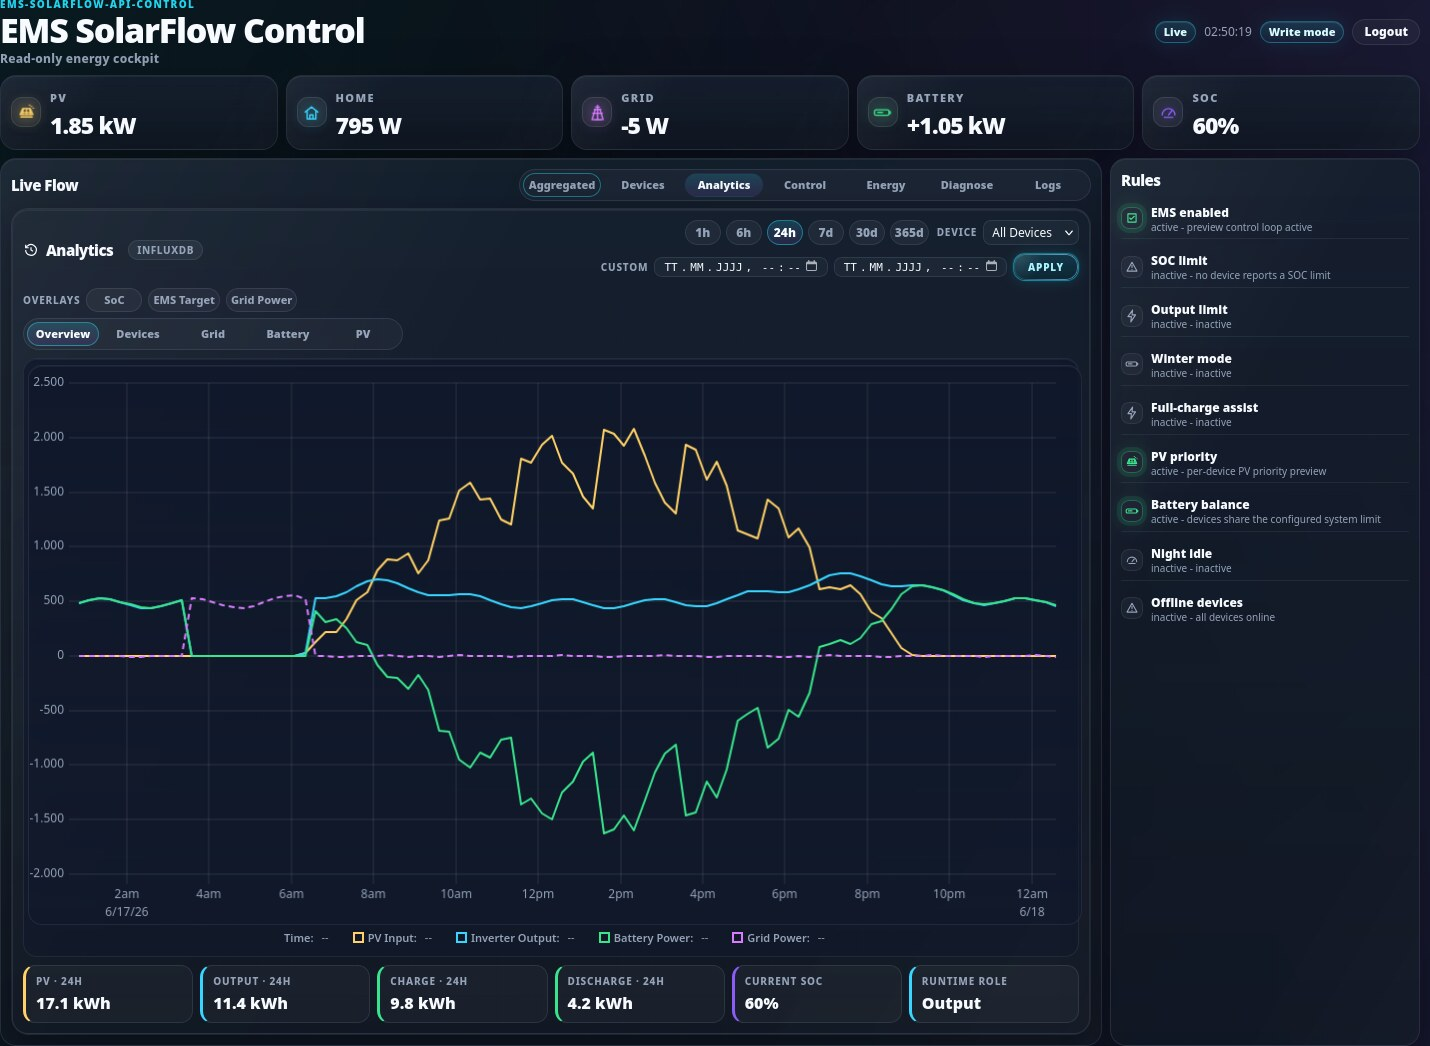
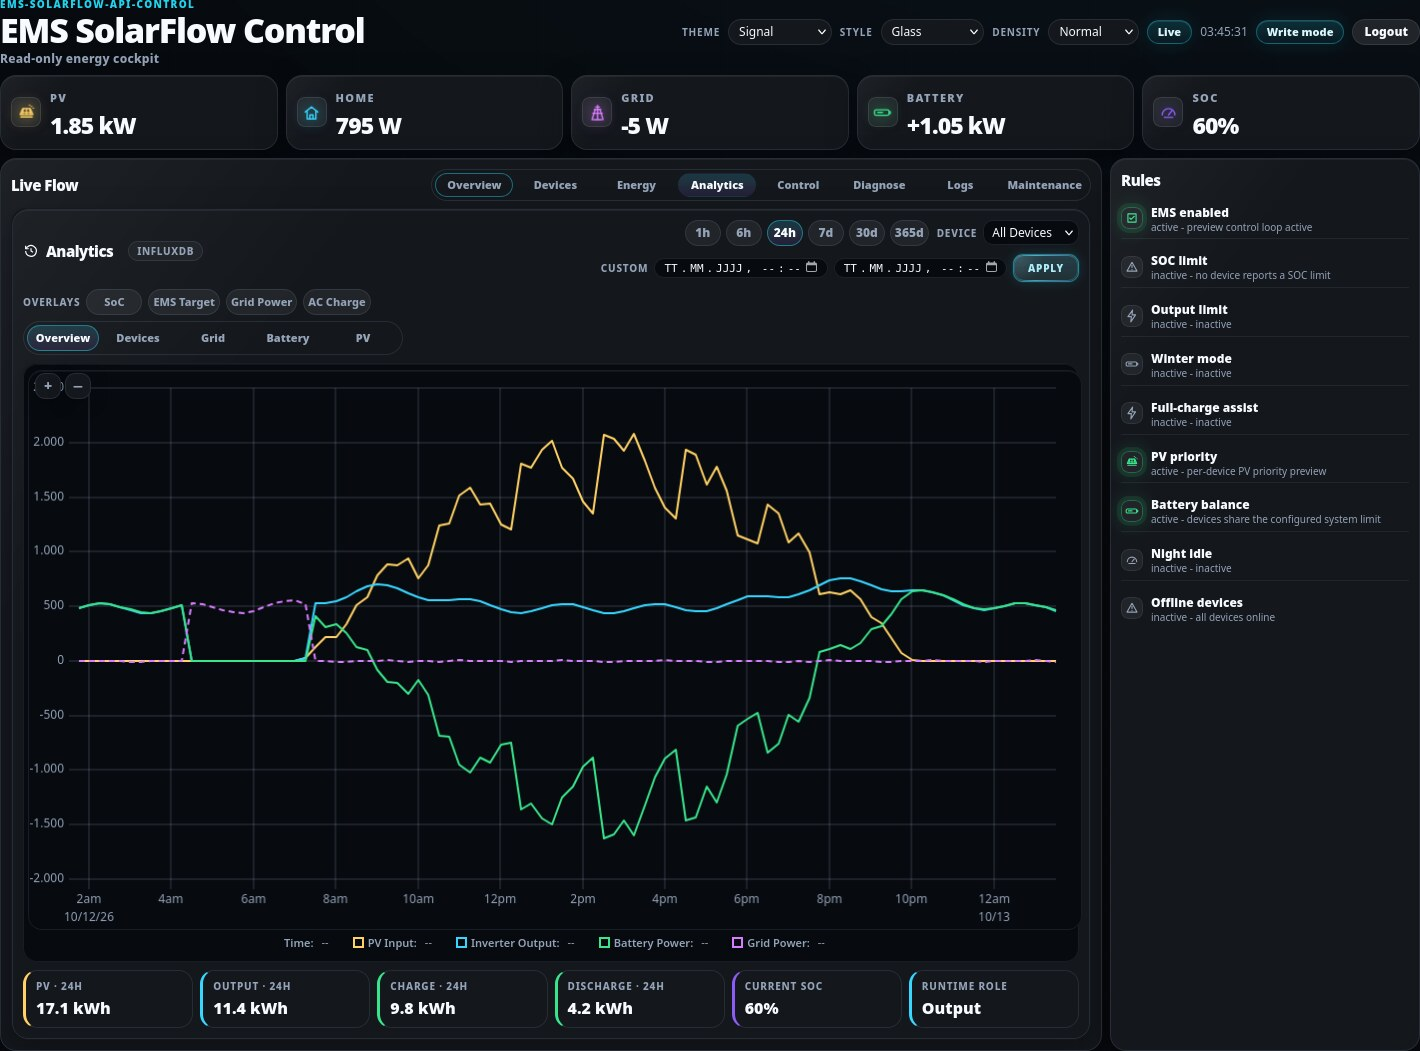
fix(dashboard): the charts take the palette's colours, and a palette switch repaints them
The Analytics and History charts draw on a canvas, which cannot read a
custom property. Their series, axis and grid colours were resolved once
when a chart was built, and nothing rebuilt it on a palette switch: a
refresh reused the chart through setData with the old palette's colours
until its structure changed or the page was reloaded. The grid was the
literal rgba(255,255,255,0.06) on every palette.

chartColors resolves every colour from the palette's tokens, the grid
from --border, the palette's own hairline. The resolved colours are part
of each chart's reuse signature, so a palette that changes them rebuilds
the chart on its next render, and applyTheme repaints the chart that is
on screen at once; a chart on a hidden tab is rebuilt when its view loads
it again, at its real width. The zoom is re-applied on the rebuild as on
every other.

Without this change the three new palette tests in
test_dashboard_analytics_frontend.py fail (no rebuild after the switch,
the white grid, a hidden chart reused in the old colours), and the two
new specs in theme.spec.ts fail in Chromium with the legend still in
Signal's PV colour after switching to Copper or Oxide. The style guide
says how a canvas takes a token; the user guide, the dashboard reference
and the two Analytics screenshots are updated.

diff --git a/dashboard/static/app.js b/dashboard/static/app.js
@@ -6699,6 +6699,21 @@ function cssColor(varName, fallback) {
   return value || fallback;
 }
 
+function chartColors(seriesIds) {
+  const axis = cssColor("--muted", "#8a94a3");
+  return {
+    series: seriesIds.map((id) => cssColor(ANALYTICS_SERIES_META[id].colorVar, "#888")),
+    axis,
+    grid: cssColor("--border", axis),
+    pct: cssColor("--accent", "#8b5cf6"),
+  };
+}
+
+function repaintChartsForPalette() {
+  if (state.analytics.chart && analyticsPanelVisible()) renderAnalyticsChart();
+  if (state.history.chart && historyVisible()) renderHistoryChart();
+}
+
 // Analytics chart display-only sign convention. The backend/API/SQLite/KPI sign
 // convention is unchanged (charging positive, discharging negative). For the
 // Analytics uPlot chart only we invert the battery line so charging reads below
@@ -6745,18 +6760,19 @@ function analyticsSeriesTooltip(seriesId, displayValue, unit) {
   return `${rounded} ${unit}`;
 }
 
-// Identity of the uPlot structure (series set, axes, scales). When this is
-// unchanged across a refresh the chart can be updated in place with setData()
+// Identity of the uPlot structure (series set, axes, scales, colours). When this
+// is unchanged across a refresh the chart can be updated in place with setData()
 // instead of being destroyed and recreated -- avoiding canvas setup, layout and
-// GC churn. A change (tab, series, overlays, device, axis/pct scale) forces a
-// rebuild.
-function analyticsChartSignature(chartSeries, usesPctScale) {
+// GC churn. A change (tab, series, overlays, device, axis/pct scale, the
+// palette's colours, which a canvas cannot read from CSS) forces a rebuild.
+function analyticsChartSignature(chartSeries, usesPctScale, colors) {
   return JSON.stringify({
     tab: state.analytics.tab,
     series: chartSeries,
     overlays: state.analytics.overlays,
     device: state.analytics.device || "",
     pct: usesPctScale,
+    colors,
   });
 }
 
@@ -6813,7 +6829,8 @@ function renderAnalyticsChart() {
   chartSeries.forEach((id) => {
     if (ANALYTICS_SERIES_META[id].scaleId === "pct") usesPctScale = true;
   });
-  const signature = analyticsChartSignature(chartSeries, usesPctScale);
+  const colors = chartColors(chartSeries);
+  const signature = analyticsChartSignature(chartSeries, usesPctScale, colors);
   // Battery is inverted here for display only; raw state.analytics.data is untouched.
   const seriesData = analyticsChartSeriesData(data, chartSeries);
 
@@ -6842,12 +6859,12 @@ function renderAnalyticsChart() {
   container.innerHTML = "";
 
   const seriesConfig = [{}];
-  chartSeries.forEach((id) => {
+  chartSeries.forEach((id, index) => {
     const meta = ANALYTICS_SERIES_META[id];
     const isOverlay = !currentAnalyticsTab().series.includes(id);
     seriesConfig.push({
       label: meta.label,
-      stroke: cssColor(meta.colorVar, "#888"),
+      stroke: colors.series[index],
       width: 2,
       dash: isOverlay ? [6, 4] : undefined,
       scale: meta.scaleId || "y",
@@ -6855,19 +6872,17 @@ function renderAnalyticsChart() {
     });
   });
 
-  const axisColor = cssColor("--muted", "#8a94a3");
-  const gridColor = "rgba(255,255,255,0.06)";
   const scales = { x: { time: true }, y: {} };
   const axes = [
-    { stroke: axisColor, grid: { stroke: gridColor }, ticks: { stroke: gridColor } },
-    { scale: "y", stroke: axisColor, grid: { stroke: gridColor }, ticks: { stroke: gridColor } },
+    { stroke: colors.axis, grid: { stroke: colors.grid }, ticks: { stroke: colors.grid } },
+    { scale: "y", stroke: colors.axis, grid: { stroke: colors.grid }, ticks: { stroke: colors.grid } },
   ];
   if (usesPctScale) {
     scales.pct = { range: [0, 100] };
     axes.push({
       scale: "pct",
       side: 1,
-      stroke: cssColor("--accent", "#8b5cf6"),
+      stroke: colors.pct,
       grid: { show: false },
       values: (_self, ticks) => ticks.map((t) => `${t}%`),
     });
@@ -7229,10 +7244,11 @@ function renderHistoryChart() {
   // discharging) and null handling.
   const seriesData = analyticsChartSeriesData(data, seriesIds);
 
-  // The history chart structure only varies by the (fixed) series set and the
-  // selected device, so reuse the instance in place across refreshes when those
-  // are unchanged.
-  const signature = JSON.stringify({ series: seriesIds, device: state.history.device || "" });
+  // The history chart structure only varies by the (fixed) series set, the
+  // selected device and the palette's colours, so reuse the instance in place
+  // across refreshes when those are unchanged.
+  const colors = chartColors(seriesIds);
+  const signature = JSON.stringify({ series: seriesIds, device: state.history.device || "", colors });
   if (
     state.history.chart &&
     state.history.chartSignature === signature &&
@@ -7253,11 +7269,11 @@ function renderHistoryChart() {
   container.innerHTML = "";
 
   const seriesConfig = [{}];
-  seriesIds.forEach((id) => {
+  seriesIds.forEach((id, index) => {
     const meta = ANALYTICS_SERIES_META[id];
     seriesConfig.push({
       label: meta.label,
-      stroke: cssColor(meta.colorVar, "#888"),
+      stroke: colors.series[index],
       width: 2,
       scale: "y",
       // Reuse the Analytics tooltip so the inverted battery line reads back as
@@ -7266,16 +7282,14 @@ function renderHistoryChart() {
     });
   });
 
-  const axisColor = cssColor("--muted", "#8a94a3");
-  const gridColor = "rgba(255,255,255,0.06)";
   const opts = {
     width: container.clientWidth || 600,
     height: historyChartHeight(),
     series: seriesConfig,
     scales: { x: { time: true }, y: {} },
     axes: [
-      { stroke: axisColor, grid: { stroke: gridColor }, ticks: { stroke: gridColor } },
-      { scale: "y", stroke: axisColor, grid: { stroke: gridColor }, ticks: { stroke: gridColor } },
+      { stroke: colors.axis, grid: { stroke: colors.grid }, ticks: { stroke: colors.grid } },
+      { scale: "y", stroke: colors.axis, grid: { stroke: colors.grid }, ticks: { stroke: colors.grid } },
     ],
     cursor: { focus: { prox: 24 } },
     legend: { live: true },
@@ -7539,6 +7553,7 @@ function applyTheme(id) {
   } catch (err) {
     /* localStorage may be unavailable; the choice holds for this page. */
   }
+  repaintChartsForPalette();
   return theme;
 }
 
@@ -7897,6 +7912,7 @@ if (typeof module !== "undefined") {
     loadHistory,
     HISTORY_SERIES,
     renderHistoryChart,
+    applyTheme,
     detectZoom,
     onAnalyticsXScale,
     onHistoryXScale,

diff --git a/tests/e2e-dashboard/theme.spec.ts b/tests/e2e-dashboard/theme.spec.ts
@@ -149,3 +149,68 @@ test.describe("theme switching @smoke", () => {
     expect(stored).toEqual({ theme: "oxide", style: "halo", density: "roomy" });
   });
 });
+
+// The two charts draw on a canvas, which cannot read a custom property: their
+// colours are resolved from the palette when a chart is built. What a reader
+// sees of that, short of reading pixels, is the legend marker uPlot paints in
+// the series' stroke, so that is what these compare with the palette's own
+// token, resolved by the browser the same way.
+async function legendMarkerColour(page, chartId: string, label: string) {
+  return page.evaluate(
+    ({ chartId, label }) => {
+      const rows = Array.from(document.querySelectorAll(`#${chartId} .u-legend .u-series`));
+      const row = rows.find((node) => (node.textContent || "").includes(label));
+      const marker = row ? row.querySelector(".u-marker") : null;
+      return marker ? getComputedStyle(marker).borderTopColor : null;
+    },
+    { chartId, label }
+  );
+}
+
+async function tokenColour(page, token: string) {
+  return page.evaluate((name) => {
+    const probe = document.createElement("span");
+    probe.style.color = `var(${name})`;
+    document.body.appendChild(probe);
+    const colour = getComputedStyle(probe).color;
+    probe.remove();
+    return colour;
+  }, token);
+}
+
+test.describe("charts follow the palette @smoke", () => {
+  test("a palette switch repaints the chart on screen", async ({ page }) => {
+    await page.goto("/preview/analytics", { waitUntil: "domcontentloaded" });
+    await expect(page.locator("#analyticsChart canvas").first()).toBeVisible();
+    await expect
+      .poll(() => legendMarkerColour(page, "analyticsChart", "PV Input"))
+      .toBe(await tokenColour(page, "--pv"));
+    const before = await legendMarkerColour(page, "analyticsChart", "PV Input");
+
+    await page.selectOption("#themeSelect", "copper");
+    await expect(page.locator("html")).toHaveAttribute("data-theme", "copper");
+    const copperPv = await tokenColour(page, "--pv");
+    expect(copperPv).not.toBe(before);
+    await expect
+      .poll(() => legendMarkerColour(page, "analyticsChart", "PV Input"))
+      .toBe(copperPv);
+  });
+
+  test("a chart off screen during the switch is repainted when it comes back", async ({
+    page,
+  }) => {
+    await page.goto("/preview/aggregated", { waitUntil: "domcontentloaded" });
+    await expect(page.locator("#historyChart canvas").first()).toBeVisible();
+    const historyPv = () => legendMarkerColour(page, "historyChart", "PV Input");
+    await expect.poll(historyPv).toBe(await tokenColour(page, "--pv"));
+
+    await page.locator('[data-flow-view="control"]').click();
+    await expect(page.locator(".history-panel")).toBeHidden();
+    await page.selectOption("#themeSelect", "oxide");
+    await expect(page.locator("html")).toHaveAttribute("data-theme", "oxide");
+
+    await page.locator('[data-flow-view="aggregated"]').click();
+    await expect(page.locator(".history-panel")).toBeVisible();
+    await expect.poll(historyPv).toBe(await tokenColour(page, "--pv"));
+  });
+});

diff --git a/tests/test_dashboard_analytics_frontend.py b/tests/test_dashboard_analytics_frontend.py
@@ -1605,6 +1605,108 @@ def test_a_read_only_device_without_a_charge_level_shows_none_and_has_no_runtime
     assert controlled["soc"] == ["Current SoC", "--"]
 
 
+PALETTE_HARNESS = """
+const app = require(%(app)s);
+const palettes = {
+  signal: { "--pv": "#ffd166", "--output": "#38d5ff", "--battery": "#39e58c",
+            "--muted": "#94a3b8", "--border": "rgba(148, 163, 184, 0.16)", "--accent": "#8b5cf6" },
+  copper: { "--pv": "#e8b45a", "--output": "#7fb8c8", "--battery": "#8fbf6a",
+            "--muted": "#a89b89", "--border": "rgba(184, 160, 128, 0.16)", "--accent": "#c98a4b" },
+};
+let theme = "signal";
+const built = [];
+const nodes = {
+  analyticsChart: { clientWidth: 800, innerHTML: "", isConnected: true },
+  historyChart: { clientWidth: 800, innerHTML: "" },
+};
+global.document = {
+  hidden: false,
+  documentElement: {
+    getAttribute: (name) => (name === "data-theme" ? theme : null),
+    setAttribute: (name, value) => { if (name === "data-theme") theme = value; },
+  },
+  getElementById: (id) => nodes[id] || null,
+  querySelectorAll: () => [],
+};
+global.window = { innerWidth: 1200, localStorage: { getItem: () => null, setItem: () => {} } };
+global.getComputedStyle = () => ({ getPropertyValue: (name) => palettes[theme][name] || "" });
+global.uPlot = function (opts, data) {
+  built.push({
+    chart: opts.cursor && opts.cursor.sync ? "analytics" : "history",
+    series: opts.series.slice(1).map((s) => s.stroke),
+    axis: opts.axes[1].stroke,
+    grid: opts.axes[1].grid.stroke,
+  });
+  this.data = data;
+  this.scales = { x: { min: data[0][0], max: data[0][data[0].length - 1] } };
+  this.setData = (next) => { this.data = next; };
+  this.setScale = () => {};
+  this.destroy = () => {};
+};
+const data = { time: [0, 1800, 3600], series: { pv: [1, 2, 3], output: [1, 2, 3], battery: [1, -2, 3] } };
+app.state.analytics.tab = "overview";
+app.state.analytics.data = data;
+app.state.history.data = data;
+"""
+
+
+def _palette_run(body):
+    script = PALETTE_HARNESS % {"app": json.dumps(str(APP_JS))} + body
+    return run_node(script)
+
+
+def test_a_palette_change_repaints_the_chart_on_screen():
+    """Canvas strokes are resolved once; the palette switch must resolve them again."""
+    out = _palette_run(
+        """
+app.state.flowView = "analytics";
+app.renderAnalyticsChart();
+app.applyTheme("copper");
+console.log(JSON.stringify(built));
+"""
+    )
+    assert len(out) == 2, out
+    signal, copper = out
+    assert signal["series"] == ["#ffd166", "#38d5ff", "#39e58c"]
+    assert copper["series"] == ["#e8b45a", "#7fb8c8", "#8fbf6a"]
+    assert copper["axis"] == "#a89b89"
+
+
+def test_the_chart_grid_is_the_palettes_own_line():
+    out = _palette_run(
+        """
+app.state.flowView = "aggregated";
+app.renderHistoryChart();
+app.applyTheme("copper");
+console.log(JSON.stringify(built));
+"""
+    )
+    assert [entry["grid"] for entry in out] == [
+        "rgba(148, 163, 184, 0.16)",
+        "rgba(184, 160, 128, 0.16)",
+    ]
+
+
+def test_a_chart_off_screen_during_a_palette_change_takes_it_on_its_next_render():
+    """A hidden chart is not rebuilt at zero width; its next render rebuilds it."""
+    out = _palette_run(
+        """
+app.state.flowView = "analytics";
+app.renderAnalyticsChart();
+app.state.flowView = "aggregated";
+app.applyTheme("copper");
+const whileHidden = built.filter((entry) => entry.chart === "analytics").length;
+app.state.flowView = "analytics";
+app.renderAnalyticsChart();
+console.log(JSON.stringify({ whileHidden, built }));
+"""
+    )
+    assert out["whileHidden"] == 1
+    analytics = [entry for entry in out["built"] if entry["chart"] == "analytics"]
+    assert len(analytics) == 2
+    assert analytics[-1]["series"] == ["#e8b45a", "#7fb8c8", "#8fbf6a"]
+
+
 _R7_GOOD = _custom_range_answer(["WR1"], 500, 400)
 _R7_NEWER = _custom_range_answer(["WR1"], 1000, 400)
 _R7_NEWEST = _custom_range_answer(["WR1"], 1500, 400)

diff --git a/docs/developer/review-coverage.md b/docs/developer/review-coverage.md
@@ -323,6 +323,7 @@ Review rounds: twenty-four, each on a fixed commit by a reviewer that had not wr
 | AL13 | low | An unreadable development-build catalogue read as an empty one: unreachable without a copy from the last day, malformed, oversized or carrying a duplicate tag, `load_development_builds` answered `[]`, so the Experimental group disappeared from Setup and Guided Upgrade without a word, while the release catalogue beside it refuses to mistake "could not be read" for "there are none"; selecting a listed development build during such an outage was refused as "not an installable catalogue entry" | fix(admin): a development catalogue that cannot be read is named, not shown as empty |
 | FR9 | low | The Control view printed the EMS's codes: the strategy as `pv_first` in the context strip and `pv first` in the Target stage, limit names, limiting and write reasons as `runtime role ac input`, `pv only limit` or `output limit update`, and a device's capability signals as `pv evidence,output evidence`. The one label for an AC input block was keyed on `ac_input_runtime_role` while the EMS sends `runtime_role_ac_input`, so it never showed; decision reasons such as `night_min_soc_idle` had no sentence | fix(dashboard): the Control view names what the EMS decided instead of printing its codes |
 | FR11 | low | The Analytics KPI labels named the period button whatever the KPIs integrated: with a custom range or a zoom the cards still read `PV · 24h` over a window of three days or ninety minutes, PV Peak named no window at all, and with a device selected Current SoC showed the system average beside a Runtime Role and energy KPIs for that device | fix(dashboard): the Analytics KPIs name the window they integrate and the device they describe |
+| FR12 | low | The Analytics and History charts ignored a palette switch: a canvas cannot read a custom property, the series, axis and grid colours were resolved once when a chart was built, and a refresh reused the chart with its old colours until its structure changed or the page was reloaded; the grid was a white literal (`rgba(255,255,255,0.06)`) on every palette | fix(dashboard): the charts take the palette's colours, and a palette switch repaints them |
 
 ## Decisions
 
@@ -363,7 +364,6 @@ reproduction; confirm or drop them before fixing.
 | AM13 | medium | large | `GuidedSetupWorkflowStore.ensure_active()` overwrites an unreadable workflow record, which is the only ownership proof for its artifacts | Same decision as AM9: strict read and a recovery state |
 | BK7 | low | large | The InfluxDB restore holds the whole backup in memory and decrypts to the system temp directory | Stream the archive, decrypt into the backup directory |
 | Q8 | low | — | The MQTT message id counter restarts at 1 on every start | Left as is: the ids reach real hardware and seeding them is not hardware-validated; a reply must also match the device and arrive during a command |
-| FR12 | low | small | Chart colours ignore the theme | UI polish |
 | G9, G10 | low | small | The `function/invoke/reply` subscription takes its prefix from the telemetry family (`/…` for `legacy_zendure_json_alt`, `iot/…` otherwise) while the command always goes to `iot/…/function/invoke`, so a reply on the other prefix is never matched and the command waits out its 10 s ack timeout (G9). On an acknowledgement profile (Hyper 2000, AIO 2400, Hub 1200/2000) a changed target that is not a stop, a direction change or a reduction of at least 300 W queues behind the in-flight command until it is confirmed: up to 10 s for the ack and 30 s for an `outputLimit` echo, 40 s when no echo comes (G10) | Looked at in review 4 and left open: nothing in the repo shows either is wrong. No capture of a legacy model's reply or of its reports after an invoke exists, the reference integration subscribes to both prefixes and ignores replies, the docs mark the reply topic and the confirmation metric as not hardware-validated, and the write-latency probe refuses invoke profiles. Decide on hardware: on a Hyper 2000, AIO 2400 or Hub 1200/2000 that reports on the leading-slash family, with the EMS stopped, publish one `deviceAutomation` invoke to `iot/<pk>/<dev>/function/invoke` while recording `/<pk>/<dev>/#` and `iot/<pk>/<dev>/#`, on a local broker and on the Zendure cloud. G9: the topic the reply carrying the command's `messageId` and `deviceId` arrives on; `iot/…` there means the prefix follows the request topic, not the family. G10: whether, and how soon, a `properties/report` carries `outputLimit` at the invoked `outPower` (within 25 W); without that echo the legacy profiles leave `_CONFIRMABLE_WRITE_PROFILES` (complete on the ack) or confirm on the metric they do report |
 | AL14 | low | — | Admin: the Zendure cloud discovery connects to the cloud broker over TLS without certificate verification (`encrypted_no_verify`) | Blocked, not fixable on our side (review 4): the EMS runtime connects the same way (the `zendure_cloud` profile carries `tls_insecure: true`, applied by the same `configure_mqtt_client_tls`), so the Admin has no TLS semantics of its own. Verification cannot pass: on 2026-10-13 `mqtteu.zen-iot.com:8883` presented a chain under a self-signed root `C=CN, ST=hangzhou, O=EMQ, CN=RootCA` (leaf `CN=Server`, no subjectAltName, valid 2020-05-08 to 2030-05-06), as `admin-discovery.md` and `configuration.md` document; system-CA verification would break the cloud control validated live on 2026-08-01. Pinning that root is the only option, and protects only if its key is Zendure's own and not a shipped default, which is not known: owner decision |
 | R6-F2 | low | — | A restore into a WAL database with another page size fails instead of replacing the file | Accepted while every database uses the default page size; revisit if one ever sets `page_size` |

diff --git a/docs/dashboard.md b/docs/dashboard.md
@@ -813,8 +813,10 @@ Browser-CPU behavior (live updates):
   live snapshot.
 - The analytics and history charts are **reused in place** (`uPlot.setData`)
   across refreshes when their structure (series set, overlays, axes, selected
-  device) is unchanged; the chart is only destroyed/recreated when that
-  structure changes or the data becomes empty.
+  device) and the palette's colours are unchanged; the chart is only
+  destroyed/recreated when one of them changes or the data becomes empty. A
+  palette switch rebuilds the chart on screen at once, and a chart on a hidden
+  tab when it is next drawn.
 - `dashboard.animation_mode` (`normal` / `reduced` / `off`) reduces or disables
   the animated flow view's pipe motion and glow/blur filters to lower CPU/GPU
   load; `prefers-reduced-motion` is always honored on top of it. See

diff --git a/docs/developer/dashboard-style-guide.md b/docs/developer/dashboard-style-guide.md
@@ -23,6 +23,14 @@ the dashboard's own `--o-note-pad`/`--o-fact-pad`) and the pill heights: those
 are fitted to the text they hold, and a density that moved them would undo that
 fit in one setting out of three.
 
+A canvas is the one place a token cannot reach by itself: it is painted with
+colour values, not rules. The Analytics and History charts resolve each token
+with `getComputedStyle` when they are built (`chartColors` in `app.js`; the
+grid is `--border`, the palette's own hairline), keep the resolved colours in
+the signature that decides whether a refresh may reuse the chart, and are
+rebuilt when the palette changes. A new canvas follows the same pattern rather
+than carrying a colour literal.
+
 ## The four tones
 
 A rule does not decide how far off the ground its surface sits. There are four

diff --git a/docs/user/dashboard/index.md b/docs/user/dashboard/index.md
@@ -123,7 +123,10 @@ Roomy is easier to read from further away.
 
 The meaning of a colour never changes: PV stays the warm one, battery the green
 one, grid the violet one, and a blocked write stays red on every palette, at
-every shape and at every density.
+every shape and at every density. The charts on the Analytics tab and in the
+History panel follow the palette too: a switch repaints their lines, axes and
+grid at once, and a chart on a tab you are not looking at takes the new palette
+when you return to it.
 
 All three choices are remembered by the browser you made them in, which is what
 you want for a screen that stays on in one room -- none of them is installation
